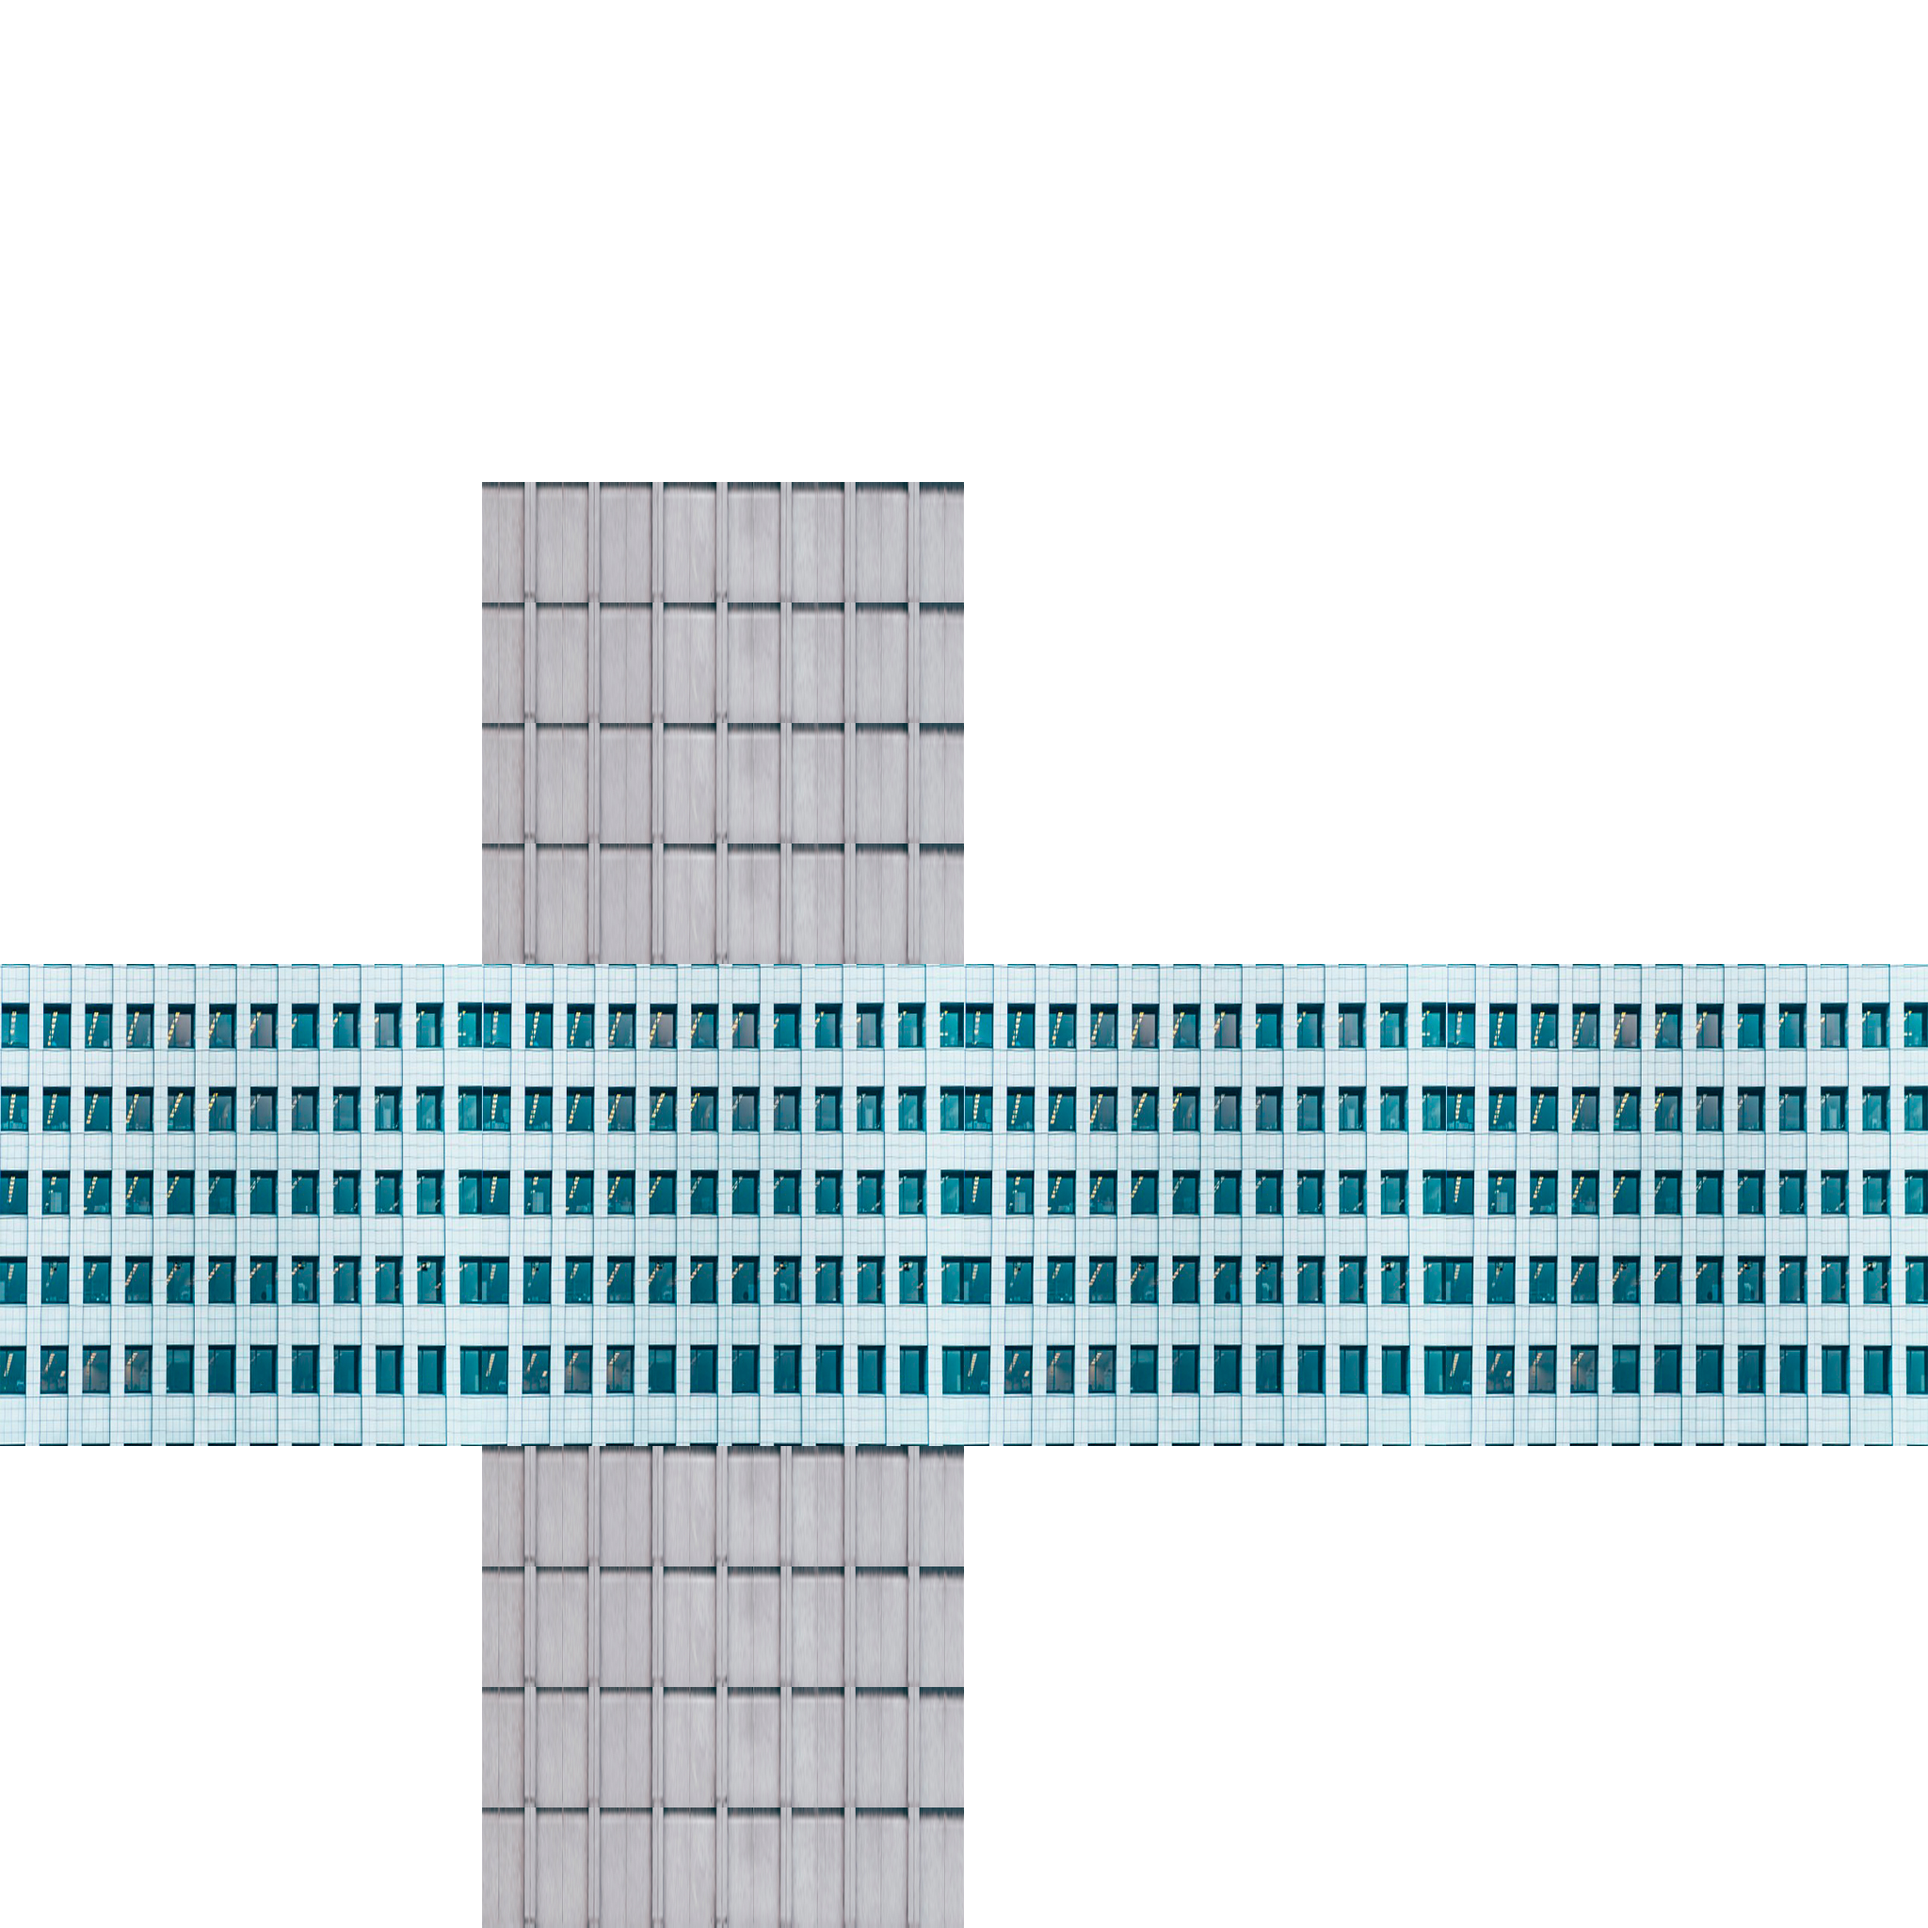
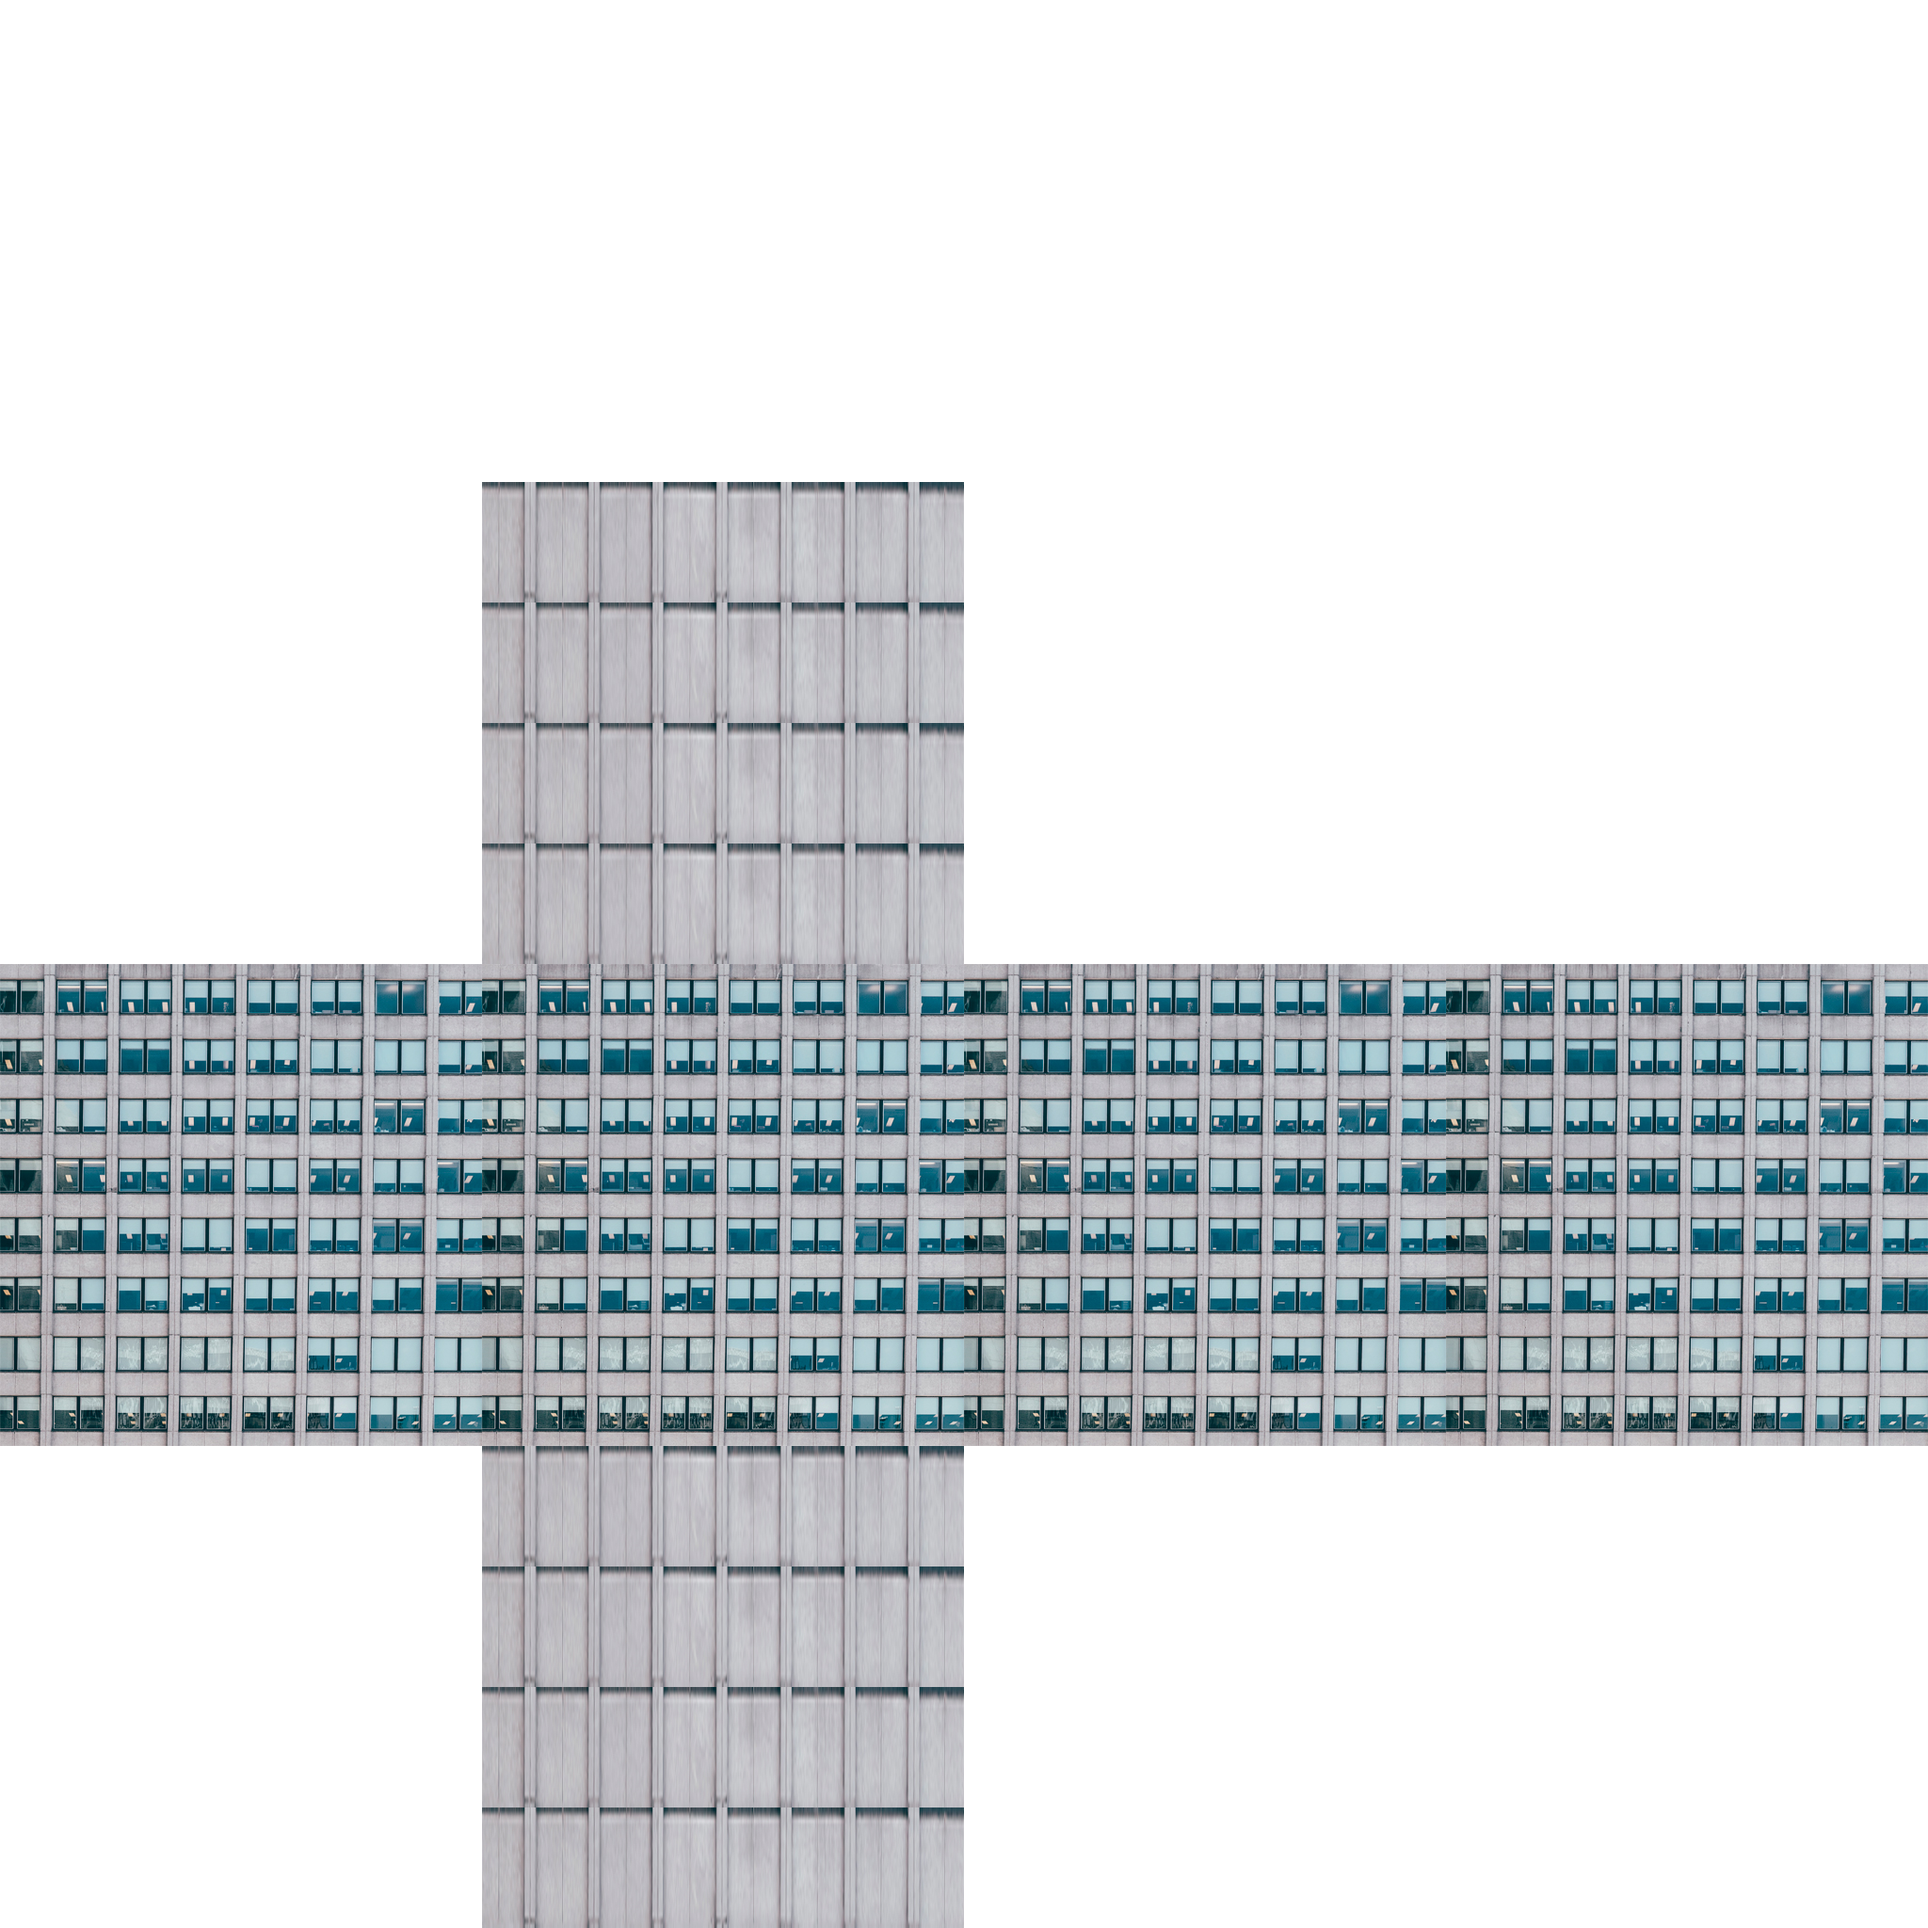
Ya se ve chido

Changed region(s): [[0.0, 0.5, 1.0, 0.75]]

diff --git a/PROYECTO_CG/main_proyecto.cpp b/PROYECTO_CG/main_proyecto.cpp
@@ -69,7 +69,13 @@ unsigned int t_dado,
 			t_carretera2,
 			t_blanco,
 			t_iglesia1,
-			t_iglesia2;
+			t_iglesia2,
+			t_edificio5,
+			t_edificio7_1,
+			t_edificio7_2,
+			t_edificio7_3,
+			t_edificio8,
+			t_edificio9;
 
 //For model
 bool animacion = false;
@@ -138,9 +144,16 @@ void LoadTextures()
 	t_edificio3= generateTextures("Texturas/edificio3.jpg", 0);
 	t_carretera = generateTextures("Texturas/carretera.jpg", 0);
 	t_carretera2 = generateTextures("Texturas/carretera2.jpg", 0);
-	t_blanco = generateTextures("Texturas/Texturaspasillo.jpg", 0);
+	t_blanco = generateTextures("Texturas/ladrillo.jpg", 0);
 	t_iglesia1= generateTextures("Texturas/iglesia1.jpg", 0);
 	t_iglesia2 = generateTextures("Texturas/iglesia1_2.jpg", 0);
+	t_edificio5 = generateTextures("Texturas/edificio5.jpg", 0);
+	t_edificio7_1 = generateTextures("Texturas/edificio7_1.jpg", 0);
+	t_edificio7_2= generateTextures("Texturas/edificio7_2.jpg", 0);
+	t_edificio7_3= generateTextures("Texturas/edificio7_3.jpg", 0);
+	t_edificio8 = generateTextures("Texturas/edificio8.jpg", 0);
+	t_edificio9 = generateTextures("Texturas/edificio9.jpg", 0);
+	
 }
 
 void casas()
@@ -182,6 +195,7 @@ void casas()
 		 0.5f,  0.5f,  0.5f,  0.0f,  1.0f,  0.0f,	0.5f, 0.5f, //V0 -> bottom right 
 		 0.5f,  0.5f, -0.5f,  0.0f,  1.0f,  0.0f,	0.5f, 0.25f, //V5 -> top right
 		-0.5f,  0.5f, -0.5f,  0.0f,  1.0f,  0.0f,	0.25f, 0.25f //V7 -> top left
+
 	};
 
 	unsigned int indices[] = {
@@ -317,7 +331,7 @@ void animate(void)
 }
 
 void display(Shader shader, Model modelo, Model llantas, Model piso, Model danny_phantom,
-		Model mansionLego, Model legoHouse, Model legoHome)
+		Model mansionLego, Model legoHouse, Model legoHome, Model legoEhouse, Model legoGas)
 {
 	shader.use();
 
@@ -390,30 +404,30 @@ void display(Shader shader, Model modelo, Model llantas, Model piso, Model danny
 	glDrawElements(GL_TRIANGLES, 6, GL_UNSIGNED_INT, 0);
 
 	//PASILLOS
-	model = glm::translate(glm::mat4(1.0f), glm::vec3(0.0f, 0.04f, 0.0f));
+	model = glm::translate(glm::mat4(1.0f), glm::vec3(0.0f, 0.05f, 0.0f));
 	model = glm::scale(model, glm::vec3(60.0f, 0.0f, 4.0f));
 	shader.setMat4("model", model);
 	shader.setVec3("aColor", 1.0f, 1.0f, 1.0f); //Aplicamos color
 	glBindTexture(GL_TEXTURE_2D, t_blanco); //Aplicamos una textura
 	glDrawElements(GL_TRIANGLES, 6, GL_UNSIGNED_INT, 0);
 	
-	model = glm::translate(glm::mat4(1.0f), glm::vec3(0.0f, 0.04f, 0.0f));
+	model = glm::translate(glm::mat4(1.0f), glm::vec3(0.0f, 0.05f, 0.0f));
 	model = glm::scale(model, glm::vec3(2.0f, 0.0f, 44.0f));
 	shader.setMat4("model", model);
 	shader.setVec3("aColor", 1.0f, 1.0f, 1.0f); //Aplicamos color
 	glBindTexture(GL_TEXTURE_2D, t_blanco); //Aplicamos una textura
 	glDrawElements(GL_TRIANGLES, 6, GL_UNSIGNED_INT, 0);
 
-	model = glm::translate(glm::mat4(1.0f), glm::vec3(0.0f, 0.04f, 0.0f));
+	model = glm::translate(glm::mat4(1.0f), glm::vec3(0.0f, 0.05f, 0.0f));
 	shader.setMat4("model", model);
 	shader.setVec3("aColor", 1.0f, 1.0f, 1.0f); //Aplicamos color
 	glBindTexture(GL_TEXTURE_2D, t_blanco); //Aplicamos una textura
 	glDrawElements(GL_TRIANGLES, 6, GL_UNSIGNED_INT, (void*)(18 * sizeof(float))); 
 
-	model = glm::translate(glm::mat4(1.0f), glm::vec3(0.0f, 0.04f, 0.0f));
+	model = glm::translate(glm::mat4(1.0f), glm::vec3(0.0f, 0.05f, 0.0f));
 	shader.setMat4("model", model);
-	shader.setVec3("aColor", 1.0f, 1.0f, 1.0f); //Aplicamos color
-	glBindTexture(GL_TEXTURE_2D, t_blanco); //Aplicamos una textura
+	shader.setVec3("aColor", 0.0f, 1.0f, 1.0f); //Aplicamos color
+	//glBindTexture(GL_TEXTURE_2D, t_blanco); //Aplicamos una textura
 	glDrawElements(GL_TRIANGLES, 6, GL_UNSIGNED_INT, (void*)(24 * sizeof(float)));
 
 	//CARRETERA
@@ -468,11 +482,32 @@ void display(Shader shader, Model modelo, Model llantas, Model piso, Model danny
 	glDrawElements(GL_TRIANGLES, 36, GL_UNSIGNED_INT, 0);
 
 	//EDIF3
-	model = glm::translate(glm::mat4(1.0f), glm::vec3(20.0f, 15.0f, -33.0f));
-	model = glm::scale(model, glm::vec3(16.0f, 30.0f, 6.0f));
+	model = glm::translate(glm::mat4(1.0f), glm::vec3(20.0f, 3.0f, -33.0f));
+	model = glm::scale(model, glm::vec3(16.0f, 6.0f, 6.0f));
 	shader.setMat4("model", model);
 	shader.setVec3("aColor", 1.0f, 1.0f, 1.0f); //Aplicamos color
-	glBindTexture(GL_TEXTURE_2D, t_edificio); //Aplicamos una textura
+	glBindTexture(GL_TEXTURE_2D, t_edificio7_2); //Aplicamos una textura
+	glDrawElements(GL_TRIANGLES, 36, GL_UNSIGNED_INT, 0);
+
+	model = glm::translate(glm::mat4(1.0f), glm::vec3(20.0f, 16.0f, -33.0f));
+	model = glm::scale(model, glm::vec3(10.0f, 20.0f, 6.0f));
+	shader.setMat4("model", model);
+	shader.setVec3("aColor", 1.0f, 1.0f, 1.0f); //Aplicamos color
+	glBindTexture(GL_TEXTURE_2D, t_edificio7_1); //Aplicamos una textura
+	glDrawElements(GL_TRIANGLES, 36, GL_UNSIGNED_INT, 0);
+
+	model = glm::translate(glm::mat4(1.0f), glm::vec3(14.0f, 13.5f, -33.0f));
+	model = glm::scale(model, glm::vec3(2.0f, 15.0f, 6.0f));
+	shader.setMat4("model", model);
+	shader.setVec3("aColor", 1.0f, 1.0f, 1.0f); //Aplicamos color
+	glBindTexture(GL_TEXTURE_2D, t_edificio7_3); //Aplicamos una textura
+	glDrawElements(GL_TRIANGLES, 36, GL_UNSIGNED_INT, 0);
+
+	model = glm::translate(glm::mat4(1.0f), glm::vec3(26.0f, 13.5f, -33.0f));
+	model = glm::scale(model, glm::vec3(2.0f, 15.0f, 6.0f));
+	shader.setMat4("model", model);
+	shader.setVec3("aColor", 1.0f, 1.0f, 1.0f); //Aplicamos color
+	glBindTexture(GL_TEXTURE_2D, t_edificio7_3); //Aplicamos una textura
 	glDrawElements(GL_TRIANGLES, 36, GL_UNSIGNED_INT, 0);
 
 	//EDIF4
@@ -550,7 +585,7 @@ void display(Shader shader, Model modelo, Model llantas, Model piso, Model danny
 	glDrawElements(GL_TRIANGLES, 36, GL_UNSIGNED_INT, 0);
 
 	//EDIFICIO 6
-	model = glm::translate(glm::mat4(1.0f), glm::vec3(43.0f, 7.5f, 15.0f));
+	model = glm::translate(glm::mat4(1.0f), glm::vec3(43.0f, 7.5f, 24.0f));
 	model = glm::rotate(model, glm::radians(-90.0f), glm::vec3(0.0f, 1.0f, 0.0f));
 	model = glm::scale(model, glm::vec3(10.0f, 15.0f, 6.0f));
 	shader.setMat4("model", model);
@@ -558,7 +593,7 @@ void display(Shader shader, Model modelo, Model llantas, Model piso, Model danny
 	glBindTexture(GL_TEXTURE_2D, t_iglesia1); //Aplicamos una textura
 	glDrawElements(GL_TRIANGLES, 36, GL_UNSIGNED_INT, 0);
 
-	model = glm::translate(glm::mat4(1.0f), glm::vec3(43.0f, 16.5f, 15.0f));
+	model = glm::translate(glm::mat4(1.0f), glm::vec3(43.0f, 16.5f, 24.0f));
 	model = glm::rotate(model, glm::radians(-90.0f), glm::vec3(0.0f, 1.0f, 0.0f));
 	model = glm::scale(model, glm::vec3(3.0f, 3.0f, 3.0f));
 	shader.setMat4("model", model);
@@ -566,10 +601,27 @@ void display(Shader shader, Model modelo, Model llantas, Model piso, Model danny
 	glBindTexture(GL_TEXTURE_2D, t_iglesia2); //Aplicamos una textura
 	glDrawElements(GL_TRIANGLES, 36, GL_UNSIGNED_INT, 0);
 
+	//EDIFICIO 7
+	model = glm::translate(glm::mat4(1.0f), glm::vec3(27.0f, 15.0f, 33.0f));
+	model = glm::scale(model, glm::vec3(6.0f, 30.0f, 6.0f));
+	shader.setMat4("model", model);
+	shader.setVec3("aColor", 1.0f, 1.0f, 1.0f); //Aplicamos color
+	glBindTexture(GL_TEXTURE_2D, t_edificio8); //Aplicamos una textura
+	glDrawElements(GL_TRIANGLES, 36, GL_UNSIGNED_INT, 0);
+
+	//EDIFICIO 8
+	model = glm::translate(glm::mat4(1.0f), glm::vec3(-20.0f, 15.0f, 34.0f));
+	model = glm::rotate(model, glm::radians(180.0f), glm::vec3(0.0f, 1.0f, 0.0f));
+	model = glm::scale(model, glm::vec3(12.0f, 30.0f, 4.0f));
+	shader.setMat4("model", model);
+	shader.setVec3("aColor", 1.0f, 1.0f, 1.0f); //Aplicamos color
+	glBindTexture(GL_TEXTURE_2D, t_edificio9); //Aplicamos una textura
+	glDrawElements(GL_TRIANGLES, 36, GL_UNSIGNED_INT, 0);
+
 	glBindVertexArray(0);
 
 
-	//-----------------------------MODELOS
+	//-----------------------------MODELOS--------------------------------------------
 	//DANNY PHANTOM
 	model = glm::translate(glm::mat4(1.0f), glm::vec3(1.0f, 0.05f, -1.0f));
 	model = glm::scale(model, glm::vec3(0.2f, 0.2f, 0.2f));
@@ -577,9 +629,9 @@ void display(Shader shader, Model modelo, Model llantas, Model piso, Model danny
 	danny_phantom.Draw(shader);
 
 
-	/*//CARRO
+	//CARRO
 	model = glm::rotate(glm::mat4(1.0f), glm::radians(90.0f), glm::vec3(0.0f, 1.0f, 0.0f));
-	tmp = model = glm::translate(model, glm::vec3(15.0f, 0.0f, movAuto_z));
+	tmp = model = glm::translate(model, glm::vec3(-24.5, 0.0f, movAuto_z));
 	model = glm::scale(model, glm::vec3(0.01f, 0.01f, 0.01f));
 	//model = glm::scale(model, glm::vec3(0.3f, 0.3f, 0.3f));
 	shader.setMat4("model", model);
@@ -609,27 +661,42 @@ void display(Shader shader, Model modelo, Model llantas, Model piso, Model danny
 
 
 	//Mansion -> Models/legoHouse/legoHouse.obj
-	model = glm::translate(glm::mat4(1.0f), glm::vec3(46.0f, 0.0f, 0.0f));
-	model = glm::scale(model, glm::vec3(0.57f, 1.0f, 1.095f)); //24*6
-	model = glm::rotate(model, glm::radians(270.0f), glm::vec3(0.0f, 1.0f, 0.0f));
+	//46	
+	model = glm::translate(glm::mat4(1.0f), glm::vec3(-40.0f, 0.0f, 0.0f));
+	model = glm::scale(model, glm::vec3(0.8f, 1.4f, 2.0f)); //24*6
+	model = glm::rotate(model, glm::radians(90.0f), glm::vec3(0.0f, 1.0f, 0.0f));
 	shader.setMat4("model", model);
 	mansionLego.Draw(shader);
 
 	//Lego House -> Models/LegoHouseW/legoHouse.obj
-	model = glm::translate(glm::mat4(1.0f), glm::vec3(20.0f, 0.0f, 33.0f));
+	model = glm::translate(glm::mat4(1.0f), glm::vec3(15.0f, 0.0f, 33.0f));
 	model = glm::scale(model, glm::vec3(1.7f, 1.85f, 0.7f)); //16*4
 	model = glm::rotate(model, glm::radians(180.0f), glm::vec3(0.0f, 1.0f, 0.0f));
 	shader.setMat4("model", model);
 	legoHouse.Draw(shader);
 
 	//Lego Home -> Models/legoHome/legoHome.obj
-	model = glm::translate(glm::mat4(1.0f), glm::vec3(-10.0f, 0.0f, 33.0f));
-	model = glm::scale(model, glm::vec3(1.9f, 1.5f, 1.4f)); //8*4
-	model = glm::rotate(model, glm::radians(180.0f), glm::vec3(0.0f, 1.0f, 0.0f));
+	model = glm::translate(glm::mat4(1.0f), glm::vec3(44.0f, 0.0f, -15.0f));
+	model = glm::rotate(model, glm::radians(-90.0f), glm::vec3(0.0f, 1.0f, 0.0f));
+	model = glm::scale(model, glm::vec3(3.5f, 2.5f, 2.0f)); //8*4
 	shader.setMat4("model", model);
 	legoHome.Draw(shader);
 
+	//Lego E House -> Models/LegoEhouse/legoEhouse.obj
+	model = glm::translate(glm::mat4(1.0f), glm::vec3(44.0f, 0.0f, 4.0f));
+	model = glm::rotate(model, glm::radians(-90.0f), glm::vec3(0.0f, 1.0f, 0.0f));
+	model = glm::scale(model, glm::vec3(1.2f, 2.0f, 1.5f)); //8*4
+	shader.setMat4("model", model);
+	legoEhouse.Draw(shader);
+
+	//Lego Gas Station -> Models/LegoGas/legoGas.obj
+	model = glm::translate(glm::mat4(1.0f), glm::vec3(-26.0f, -0.9f, -34.0f));
+	model = glm::scale(model, glm::vec3(0.318f, 0.16f, 0.066f)); 
+	shader.setMat4("model", model);
+	legoGas.Draw(shader);
+
 }
+
 
 int main()
 {
@@ -685,6 +752,9 @@ int main()
 	Model mansionLego = ((char *)"Models/LegoHouse/legoHouse.obj");
 	Model legoHouse = ((char *)"Models/LegoHouseW/legoHouse.obj");
 	Model legoHome = ((char *)"Models/LegoHome/legoHome.obj");
+	Model legoEhouse = ((char *)"Models/LegoEhouse/legoEhouse.obj");
+	Model legoGas = ((char *)"Models/LegoGas/legoGas.obj");
+	
 
 	glm::mat4 projection = glm::mat4(1.0f);	//This matrix is for Projection
 	projection = glm::perspective(glm::radians(camera.Zoom), (float)SCR_WIDTH / (float)SCR_HEIGHT, 0.1f, 100.0f);
@@ -708,7 +778,8 @@ int main()
 		glClear(GL_COLOR_BUFFER_BIT | GL_DEPTH_BUFFER_BIT);
 
 		//display(modelShader, ourModel, llantasModel);
-		display(modelShader, ourModel, llantasModel, pisoModel, danny_phantomModel, mansionLego, legoHouse, legoHome);
+		display(modelShader, ourModel, llantasModel, pisoModel, danny_phantomModel, 
+				mansionLego, legoHouse, legoHome, legoEhouse, legoGas);
 
 		// glfw: swap buffers and poll IO events (keys pressed/released, mouse moved etc.)
 		// -------------------------------------------------------------------------------
